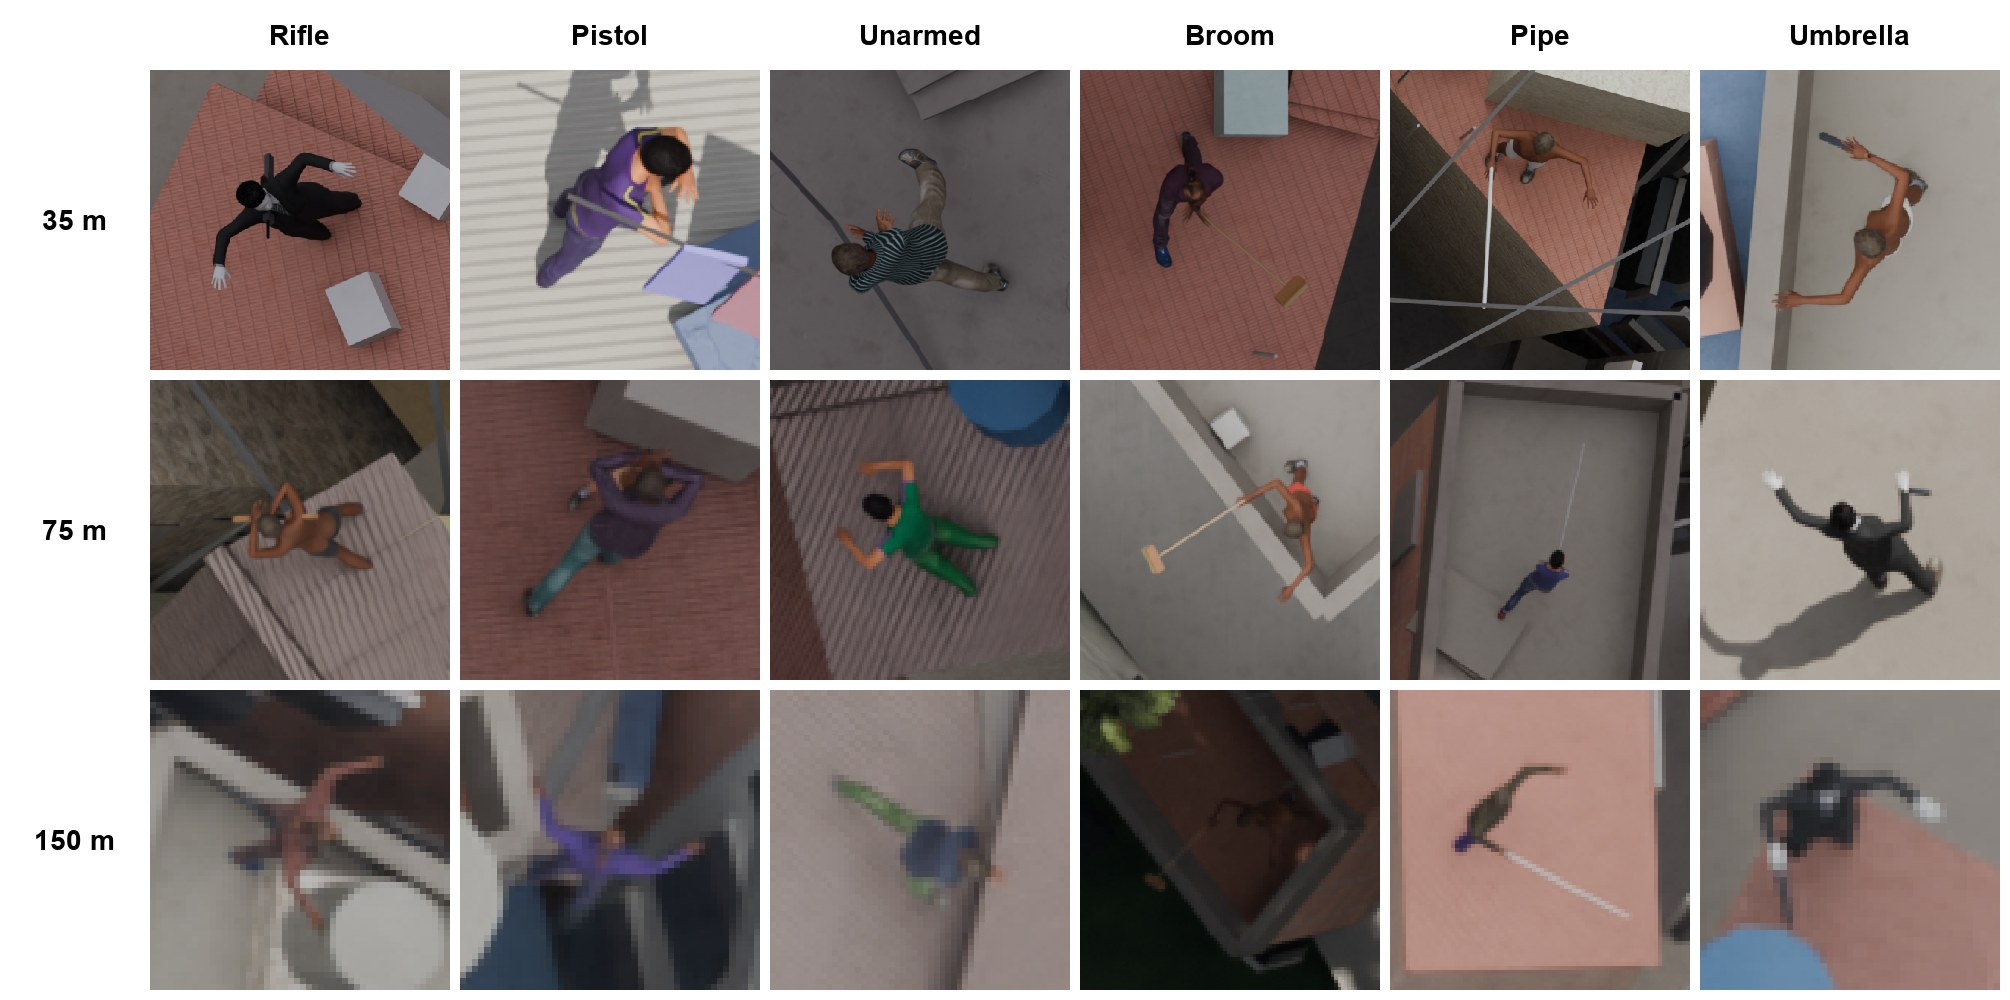
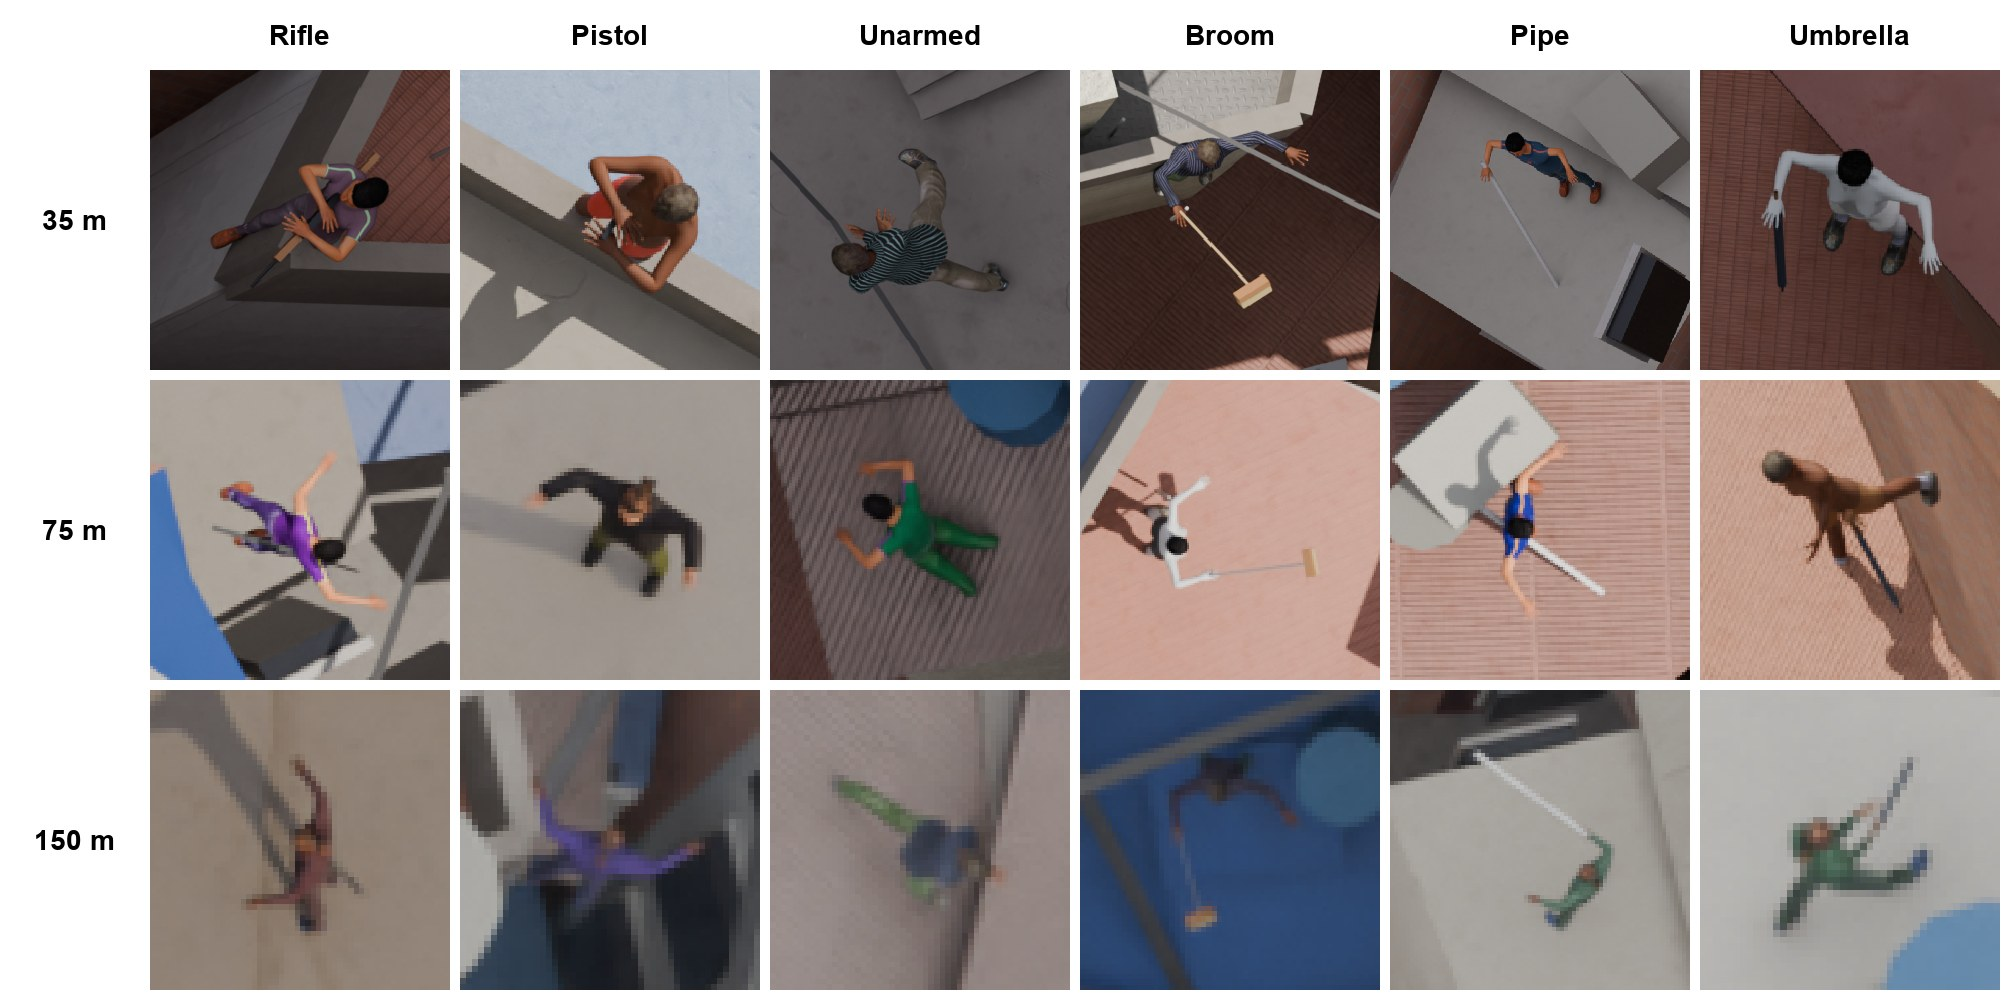
Figura 7 refeita: objeto na mao e visivel em cada recorte, legenda com o criterio
- conferido que nao ha erro de rotulo: tipos e caixas alinhados em todos os corpora armados
- causa no gerador: objeto preso no punho com orientacao fixa por pose; na pose ao lado o
  guarda-chuva aponta para baixo e encolhe; a pistola quase nao aparece
- escolha a olho entre folhas de candidatos, fixada em figuras_artigo.py; frase nova na 7.4

diff --git a/06-resultados/figuras_artigo.py b/06-resultados/figuras_artigo.py
@@ -6,9 +6,9 @@ da PCERJ), a pedido do autor em 30/09.
   fig6_assentamentos.jpg  um quadro de cada um dos seis assentamentos do S-oblique-six (sitios -1 a
                           4 de sitios.py; o -1 e o assentamento do corpus de referencia)
   fig7_armados.jpg        pessoa com fuzil, com pistola, sem nada, com vassoura, com cano e com
-                          guarda-chuva a 35, 75 e 150 m (quadros novos da rodada 4 e gemeo de 150 m), cada recorte ampliado
-                          ao mesmo tamanho (vizinho mais proximo), para mostrar quanto da arma chega
-                          ao sensor em cada altitude
+                          guarda-chuva a 35, 75 e 150 m (corpus de 35 m, gemeos de 75 e 150 m e quadros
+                          novos da rodada 4), cada recorte ampliado ao mesmo tamanho (vizinho mais
+                          proximo), para mostrar quanto da arma chega ao sensor em cada altitude
   fig8_nadir_obliquo.jpg  o mesmo assentamento visto em nadir a 150 m (corpus de referencia) e com a
                           camera obliqua (S-oblique), com recortes de pessoas sem arma de cada um
 
@@ -18,7 +18,8 @@ Figuras 2 e 4 refeitas com rotulos em ingles a partir das mesmas imagens de 20/0
 quadros da versao de 20/09).
 
 Escolha deterministica: para cada painel, o primeiro quadro (em ordem de nome) que atende ao filtro
-declarado em cada funcao. Nenhum numero sai daqui; as legendas usam os do texto.
+declarado em cada funcao. Nenhum numero sai daqui; as legendas usam os do texto. Excecao: na figura 7
+as pessoas com arma ou objeto foram escolhidas a olho (ver fig7).
 
   python figuras_artigo.py
 """
@@ -96,35 +97,67 @@ def isolada(cxs, k, fator):
 
 
 def fig7():
-    # quadros novos a 35 m e seus gemeos a 75 m (gerador atual, com laje por caixa) e o gemeo a 150 m
+    """Escolha a olho, 30/09, depois de o autor apontar na versao anterior (maior caixa que passava nos
+    filtros) um guarda-chuva que parecia pistola e armas soltas do corpo. Motivo, no gerador
+    (people_mpfb.py): o objeto e preso no punho direito com orientacao fixada por pose no espaco do
+    corpo, nao resolvida contra as maos, e na pose "ao lado" aponta quase na vertical, de modo que de
+    cima o guarda-chuva encolhe a um toco escuro. Criterio da escolha, entre os recortes visiveis
+    (visibilidade >= 0,85), sozinhos no recorte e em regime claro (folhas de candidatos com os 14 de
+    maior caixa por tipo e altitude): o objeto dentro da mao e perto da horizontal, de modo que o
+    comprimento inteiro aparece, e sem varal ou cabo da cena que se confunda com ele. A coluna sem
+    arma segue o criterio automatico antigo. Os tipos conferem com as caixas: nos corpora com
+    `caixas` a ordem de classe bate com o rotulo em todos os quadros, e no ds_armado_35, que so tem
+    `tipos`, o numero de tipos bate com o de caixas armada e objeto nos 200 quadros."""
     linhas = [("35 m", "ds_armado_35_extra"), ("75 m", "ds_armado_75g_extra"), ("150 m", "ds_armado_150g")]
     colunas = [("Rifle", 0, ("fuzil_ak", "fuzil_ar", "carabina")), ("Pistol", 0, ("pistola",)),
                ("Unarmed", 1, ("",)), ("Broom", 2, ("vassoura",)), ("Pipe", 2, ("cano_pvc",)),
                ("Umbrella", 2, ("guarda_chuva",))]
+    escolha = {  # (linha, coluna): (corpus, quadro, indice da caixa no rotulo)
+        ("35 m", "Rifle"): ("ds_armado_35", "mr_000139.png", 7),
+        ("35 m", "Pistol"): ("ds_armado_35", "mr_000042.png", 2),
+        ("35 m", "Broom"): ("ds_armado_35", "mr_000156.png", 3),
+        ("35 m", "Pipe"): ("ds_armado_35_extra", "mr_000277.png", 12),
+        ("35 m", "Umbrella"): ("ds_armado_35", "mr_000090.png", 7),
+        ("75 m", "Rifle"): ("ds_armado_75g", "mr_000186.png", 9),
+        ("75 m", "Pistol"): ("ds_armado_75g_extra", "mr_000253.png", 3),
+        ("75 m", "Broom"): ("ds_armado_75g_extra", "mr_000222.png", 6),
+        ("75 m", "Pipe"): ("ds_armado_75g_extra", "mr_000234.png", 9),
+        ("75 m", "Umbrella"): ("ds_armado_75g", "mr_000162.png", 4),
+        ("150 m", "Rifle"): ("ds_armado_150g", "mr_000043.png", 2),
+        ("150 m", "Pistol"): ("ds_armado_150g", "mr_000146.png", 7),
+        ("150 m", "Broom"): ("ds_armado_150g", "mr_000098.png", 0),
+        ("150 m", "Pipe"): ("ds_armado_150g", "mr_000038.png", 17),
+        ("150 m", "Umbrella"): ("ds_armado_150g", "mr_000068.png", 11),
+    }
     tam, ml, mt, g, fator = 300, 150, 70, 10, 1.7
     fig = Image.new("RGB", (ml + len(colunas) * (tam + g), mt + len(linhas) * (tam + g)), "white")
     d = ImageDraw.Draw(fig)
     for j, (nome, _, _) in enumerate(colunas):
         d.text((ml + j * (tam + g) + tam // 2, mt // 2), nome, font=FONTE_P, fill="black", anchor="mm")
-    for i, (alt, ds) in enumerate(linhas):
+    for i, (alt, ds_auto) in enumerate(linhas):
         d.text((ml // 2, mt + i * (tam + g) + tam // 2), alt, font=FONTE_P, fill="black", anchor="mm")
-        rs = sorted(manifest(ds), key=lambda r: r["img"])
-        for j, (_, cls, tipos) in enumerate(colunas):
-            # criterio: pessoa em laje (fundo iluminado), visivel, longe da borda, sozinha no recorte, em
-            # regime claro; entre as que passam, a de maior caixa (objeto estendido para fora do corpo)
-            cands = []
-            for r in rs:
-                if r["clima"] not in CLARO:
+        for j, (nome, cls, tipos) in enumerate(colunas):
+            if (alt, nome) in escolha:
+                ds, img, k = escolha[(alt, nome)]
+                r = next(x for x in manifest(ds) if x["img"] == img)
+                c, tp, v, cx, cy, w, h = caixas(ds, r)[k]
+                assert c == cls and tp in tipos, (alt, nome, c, tp)
+            else:
+                # sem arma: pessoa em laje, visivel, longe da borda, sozinha no recorte, em regime
+                # claro; entre as que passam, a de maior caixa
+                ds, cands = ds_auto, []
+                for r in sorted(manifest(ds), key=lambda r: r["img"]):
+                    if r["clima"] not in CLARO:
+                        continue
+                    cxs = caixas(ds, r)
+                    lajes = [c[2] for c in r["caixas"]] if "caixas" in r else [1] * len(cxs)
+                    for k, (c, tp, v, cx, cy, w, h) in enumerate(cxs):
+                        if (c == cls and tp in tipos and v >= 0.95 and lajes[k] == 1 and 0.1 < cx < 0.9
+                                and 0.1 < cy < 0.9 and isolada(cxs, k, fator)):
+                            cands.append((w * h, r["img"], r, cx, cy, w, h))
+                if not cands:
                     continue
-                cxs = caixas(ds, r)
-                lajes = [c[2] for c in r["caixas"]] if "caixas" in r else [1] * len(cxs)
-                for k, (c, tp, v, cx, cy, w, h) in enumerate(cxs):
-                    if (c == cls and tp in tipos and v >= 0.95 and lajes[k] == 1 and 0.1 < cx < 0.9
-                            and 0.1 < cy < 0.9 and isolada(cxs, k, fator)):
-                        cands.append((w * h, r["img"], r, cx, cy, w, h))
-            if not cands:
-                continue
-            _, _, r, cx, cy, w, h = max(cands, key=lambda c: (c[0], c[1]))
+                _, _, r, cx, cy, w, h = max(cands, key=lambda c: (c[0], c[1]))
             fig.paste(recorte(imagem(ds, r), cx, cy, w, h, fator, 24, tam), (ml + j * (tam + g), mt + i * (tam + g)))
     fig.save(os.path.join(OUT, "fig7_armados.jpg"), quality=88)
 

diff --git a/01-artigo/manuscrito/03b-methodology-synthetic-pipeline.md b/01-artigo/manuscrito/03b-methodology-synthetic-pipeline.md
@@ -190,18 +190,21 @@ Weapons and objects are drawn from one palette of base colours and surface rough
 and metallic surfaces occur on both and colour alone cannot separate the two, although light PVC and
 coloured plastic occur only on objects. Both are carried through the same distribution of body
 poses, held forward, at the side, slung on the back, or carried while walking, in the same
-proportions. However, an object whose recorded length exceeds 1.15 m, which no weapon's recorded
-length does, is then re-angled in every pose to rest on the shoulder or to point towards the ground,
-so most confusable objects are carried at angles no weapon takes. A detector that separates the
-classes on this corpus may therefore be using the length and silhouette of what is carried, the
-light and coloured materials that only objects have, and the angle at which it is carried, which is
-a rule of this generator rather than an observation of how residents carry things. Section 9.5 tests
-the last of these, carrying every object exactly as a weapon is carried, and the rate at which
-objects are called armed does not rise; the rate at which the detector calls a broom a rifle is
-reported directly in that section. Later corpora, at 35 m and its twins at 75 m and 150 m, including
-the new frames rendered with their settings, depart from this in one respect, stated where they are
-reported: the object is drawn in the firing pose with probability 0.08 rather than 0.42, the
-probability used for the weapon, which is closer to how such objects are carried.
+proportions. The item is placed at the right wrist, or on the back when slung, with an orientation
+set per pose in the frame of the body rather than solved against the hands, so in some figures it
+does not sit in the grip; the same rule places weapons and objects. However, an object whose
+recorded length exceeds 1.15 m, which no weapon's recorded length does, is then re-angled in every
+pose to rest on the shoulder or to point towards the ground, so most confusable objects are carried
+at angles no weapon takes. A detector that separates the classes on this corpus may therefore be
+using the length and silhouette of what is carried, the light and coloured materials that only
+objects have, and the angle at which it is carried, which is a rule of this generator rather than an
+observation of how residents carry things. Section 9.5 tests the last of these, carrying every
+object exactly as a weapon is carried, and the rate at which objects are called armed does not rise;
+the rate at which the detector calls a broom a rifle is reported directly in that section. Later
+corpora, at 35 m and its twins at 75 m and 150 m, including the new frames rendered with their
+settings, depart from this in one respect, stated where they are reported: the object is drawn in
+the firing pose with probability 0.08 rather than 0.42, the probability used for the weapon, which
+is closer to how such objects are carried.
 
 ### 7.5 Domain randomisation over illumination
 

diff --git a/STATUS.md b/STATUS.md
@@ -2,7 +2,7 @@
 
 Retrato atual do projeto. Reescrever a cada marco. Histórico fica em `DIARIO.md`.
 
-Última atualização: 2026-09-30, 16h, [DESKTOP]
+Última atualização: 2026-09-30, 17h, [DESKTOP]
 
 ## Rodada 4 (encerrada 30/09 10:25, sem grupo com falha)
 
@@ -48,7 +48,7 @@ Para a próxima rodada longa neste PC: cadeia idempotente com trava e retomada; 
 | Pendências do rascunho | `01-artigo/PENDENCIAS.md`: 12 resolvidas (A1, A2, A3, A5, B2, C1 a C5, E1, E2), 20 abertas |
 | Resultados empíricos | Sintético e VisDrone (imagem real) com origem em arquivo (`06-resultados/`), todos no manuscrito. **Validado em 10 rodadas em 26 e 27/09** (`01-artigo/VALIDACAO-2026-09-26.md`): 287 achados conferidos e aplicados; todo número bate com a fonte, toda remissão resolve, o PDF sai limpo. Atualizado com a rodada 4 em 30/09 e revisado de novo no mesmo dia (três lentes: números, lógica, forma; 128 trocas, cada uma conferida na fonte; origem dos números conferidos em `06-resultados/RESULTADOS.md`, entrada de 30/09). Nenhum `[X]`: as duas checagens não rodadas estão descritas como especificadas e não executadas. Decidido em 30/09: sai só o texto, sem corpus nem código, e o manuscrito não cita arquivos do repositório. Decisões ainda do autor: lista na entrada do DIARIO de 30/09 (revisão geral) |
 | Figuras | 8, todas do braço procedural, rótulos em inglês desde 30/09: nadir, beco, anotação, seis regimes de luz, seis assentamentos, nadir contra oblíquo, armados por altitude, quadros do piloto. Geradas por `06-resultados/figuras_artigo.py` e `07-blender/scripts/previa_dataset.py` |
-| PDF | `monta_artigo.py`, formato Elsevier: 28 páginas, 31.171 palavras, 8 figuras, 0 `[X]`. Na Área de Trabalho do desktop. Não foi por e-mail: a ferramenta do Gmail só aceita anexo inline e o arquivo tem 5 MB; publicar o PDF num artifact privado foi barrado pelo classificador de permissões e espera autorização do autor |
+| PDF | `monta_artigo.py`, formato Elsevier: 28 páginas, 31.267 palavras, 8 figuras, 0 `[X]`. Na Área de Trabalho do desktop. Não foi por e-mail: a ferramenta do Gmail só aceita anexo inline e o arquivo tem 5 MB; publicar o PDF num artifact privado foi barrado pelo classificador de permissões e espera autorização do autor |
 | Busca bibliográfica de 30/09 | Concluída (8 agentes, cinco frentes; relatório em `04-bibliografia/busca-2026-09-30-pontos-abertos.md`) e aplicada no mesmo dia com o OK do autor: 33 trocas no texto, 65 referências novas com DOI reconferido no Crossref, 10 entradas substituídas ou retiradas, 5 corrigidas, lista numa ordem alfabética só |
 
 ## Experimento (desktop)

diff --git a/01-artigo/manuscrito/07b-results-placeholder.md b/01-artigo/manuscrito/07b-results-placeholder.md
@@ -306,7 +306,7 @@ holds 2,887 instances in 200 images, 933 of them armed, 973 unarmed and 981 carr
 object. A second corpus at 35 m, 1.1 cm per pixel, holds 2,223 instances with a median of 121.8 by
 103.1 pixels.
 
-<!--FIG:06-resultados/figuras/fig7_armados.jpg|Figures carrying a rifle, a pistol, nothing, a broom, a length of pipe or a closed umbrella at the three altitudes of this section, each cropped from a rendered frame and scaled to the same size without smoothing, so that every crop shows the pixels the detector receives; each is the figure with the largest box among isolated figures on rooftops under clear light, so the carried object is shown at its most visible. At 35 m the weapons and the objects are distinct shapes; at 75 m they survive as lines of different length and tone; at 150 m, the reference altitude, the whole figure is a few tens of pixels, the rifle and the pistol cannot be told from the body, and a long light object such as the pipe still shows as a line. The crops at 35 m and 75 m come from the new frames described below, none used in training; those at 150 m from the twin corpus whose model did not pass its validity condition.-->
+<!--FIG:06-resultados/figuras/fig7_armados.jpg|Figures carrying a rifle, a pistol, nothing, a broom, a length of pipe or a closed umbrella at the three altitudes of this section, each cropped from a rendered frame and scaled to the same size without smoothing, so that every crop shows the pixels the detector receives. The carrying figures were chosen by eye, among isolated figures under clear light, as ones whose item sits in the hand and close to the horizontal, so that its full length shows; in many frames the item points steeply downward and appears foreshortened, or does not sit in the grip, because of how the generator places it (Section 7.4). At 35 m the weapons and the objects are distinct shapes; at 75 m they survive as lines of different length and tone; at 150 m, the reference altitude, the whole figure is a few tens of pixels, the rifle and the pistol cannot be told from the body, and a long object such as the pipe, the broom or the umbrella still shows as a line. The crops at 35 m and 75 m come from the corpus at 35 m, its twin at 75 m and the new frames rendered with their settings; those at 150 m from the twin corpus whose model did not pass its validity condition.-->
 
 | Quantity | S-nadir-75 (75 m) | S-nadir-35 (35 m) | Twin of S-nadir-35 at 75 m |
 |---|---|---|---|

diff --git a/DIARIO.md b/DIARIO.md
@@ -2,6 +2,15 @@
 
 Entradas novas no topo. Formato: `## AAAA-MM-DD [MÁQUINA] título`, depois o que foi feito, o que foi decidido e o que ficou para o outro lado. Nunca apagar entrada antiga.
 
+## 2026-09-30 [DESKTOP] Figura 7 refeita: objeto na mão e visível
+
+- Pedido do autor: na figura 7 a pistola e o guarda-chuva não batiam com o objeto, e em alguns recortes a arma estava solta do corpo.
+- Primeiro conferi se era erro de rótulo, e não é. Nos corpora com `caixas`, a ordem de classe bate com o arquivo de rótulo em todos os quadros e os tipos batem com as caixas armada e objeto. No `ds_armado_35`, que só tem `tipos`, o número de tipos bate com o de caixas nos 200 quadros. As taxas por objeto da 9.5 não mudam.
+- A causa está no gerador (`people_mpfb.py`): o objeto é preso no punho direito (ou nas costas) com orientação fixada por pose no espaço do corpo, sem ser resolvida contra as mãos. Na pose "ao lado" ele aponta quase na vertical, e de cima o guarda-chuva de 0,88 m encolhe a um toco escuro com cara de pistola. A pistola, de 0,20 m, quase não aparece; no recorte antigo de 35 m, o objeto comprido que se via era um varal da cena.
+- A figura foi refeita com escolha a olho sobre folhas de candidatos: os de maior caixa por tipo e altitude, com visibilidade de pelo menos 0,85, sozinhos no recorte e sob luz clara. O critério foi objeto na mão e perto da horizontal. As escolhas e o critério ficaram fixados em `06-resultados/figuras_artigo.py` (fig7).
+- A legenda da figura 7 diz o critério e a origem dos recortes. A 7.4 ganhou uma frase sobre como o gerador prende o objeto.
+- PDF refeito na Área de Trabalho: 28 páginas, 31.267 palavras.
+
 ## 2026-09-30 [DESKTOP] Busca bibliográfica aplicada ao manuscrito
 
 - OK do autor às cinco frentes do relatório de 30/09.
